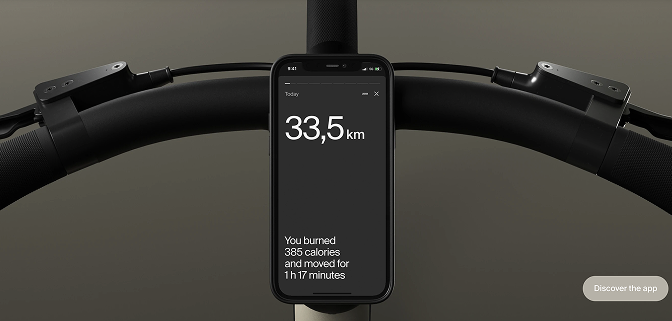
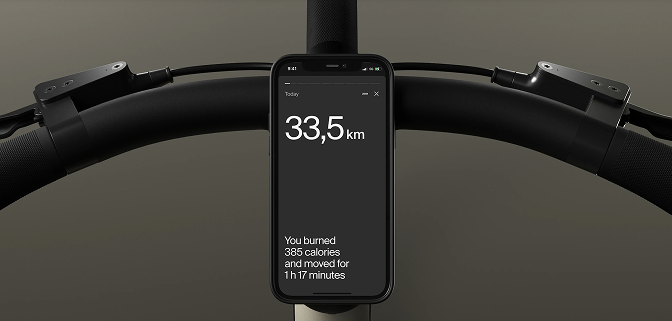
ten changes

Changed region(s): [[0.8438, 0.8411, 1.0, 0.9346]]

diff --git a/src/index.html b/src/index.html
@@ -5,6 +5,7 @@
     <meta charset="UTF-8">
     <meta name="viewport" content="width=device-width, initial-scale=1.0">
     <title>My Bike</title>
+    <link rel="icon" href="./images/Vector.png" type="image/x-icon">
     <link rel="stylesheet" href="./styles/main.scss">
     <link rel="preconnect" href="https://fonts.googleapis.com">
     <link rel="preconnect" href="https://fonts.gstatic.com"
@@ -175,8 +176,7 @@
       <section class="contact" id="contacts">
         <div class="contact__title"><h2>Contact us</h2></div>
         <div class="contact__content">
-          <form class="contact__form" action="#"
-            method="post">
+          <form class="contact__form" action="#">
             <input class="contact__field" type="text"
               name="name" placeholder="Name"
               required>
@@ -205,11 +205,12 @@
 
             <div class="contact__item">
               <p class="contact__label">Address</p>
-              <p class="contact__value">
+              <a class="contact__value"  
+              href="https://www.google.com/maps/search/?api=1&query=400+First+Ave+Suite+700+Minneapolis+MN+55401" target="_blank">
                 400 first ave.<br>
                 suite 700<br>
                 Minneapolis, MN 55401
-              </p>
+            </a>
             </div>
           </div>
         </div>

diff --git a/src/styles/blocks/header.scss b/src/styles/blocks/header.scss
@@ -2,20 +2,20 @@
   background-image: url(../images/header-bg-small.png);
   background-repeat: no-repeat;
   background-position: right center;
+  background-size: cover;
   display: flex;
   flex-direction: column;
-  min-height: 480px;
+  height: 100vh;
+  width: 100%;
 
   @include on-tablet {
-     min-height: 628px;
+     background-position: center center;
      background-image: url(../images/header-bg2.png);
    }
 
   @include on-desktop {
-    box-sizing: border-box;
-    background-size: cover;
+    background-position: center center;
     background-image: url(../images/header-bg.png);
-    min-height: 711px;
    }
 
   &__title {

diff --git a/src/styles/blocks/details.scss b/src/styles/blocks/details.scss
@@ -73,6 +73,12 @@
            aspect-ratio: 1 / 1;
            background-image: url(../images/details/discSide.png);
          }
+
+         transition: transform 0.3s;
+
+        &:hover {
+          transform: scale(1.05);
+        }
        }
 
     &__item-content {
@@ -149,10 +155,9 @@
 
     &__image--unlock-side,
     &__image--range-side,
-    &__image--disc-side {  
+    &__image--disc-side {
         aspect-ratio: 1 / 1;
     }
-
 
     &__item-content {
         letter-spacing: 0;

diff --git a/src/styles/blocks/menu.scss b/src/styles/blocks/menu.scss
@@ -7,7 +7,15 @@
    text-transform: uppercase;
 
    &__content {
-      padding: 24px 121px;
+      padding: 32px 20px;
+
+      @include on-tablet {
+        padding: 24px 72px;
+      }
+
+      @include on-desktop {
+        padding: 24px 120px;
+      }
     }
 
    &__icons {
@@ -25,6 +33,7 @@
       line-height: 27px;
       letter-spacing: 0;
       text-decoration: none;
+      white-space: nowrap;
     }
 
    &__phone-call {

diff --git a/src/styles/blocks/nav.scss b/src/styles/blocks/nav.scss
@@ -5,13 +5,19 @@
       padding: 0;
       list-style: none;
       display: flex;
-      gap: 32px;
+      gap: 28px;
       flex-direction: column;
     }
 
     &__link {
+      display: block;
+      width: fit-content;
       color: inherit;
       text-decoration: none;
+      font-size: 22px;
+      font-weight: 600;
+      line-height: 22px;
+      letter-spacing: 2px;
     }
 }
 

diff --git a/src/styles/blocks/compare.scss b/src/styles/blocks/compare.scss
@@ -64,6 +64,12 @@
     background-position: center;
     background-size: cover;
 
+    transition: transform 0.3s;
+
+     &:hover {
+      transform: scale(1.05);
+     }
+
    @include on-tablet {
       width: 392px;
       height: 316px;

diff --git a/src/scripts/main.js b/src/scripts/main.js
@@ -1,1 +1,8 @@
 'use strict';
+
+const form = document.querySelector('.contact__form');
+
+form.addEventListener('submit', (event) => {
+  event.preventDefault();
+  form.reset();
+});

diff --git a/src/styles/blocks/icon.scss b/src/styles/blocks/icon.scss
@@ -4,7 +4,7 @@
   height: 24px;
   width: 24px;
   background-size: cover;
-  cursor: default;
+  cursor: pointer;
 
     @media (min-width: 744px) {
     height: 32px;

diff --git a/src/styles/blocks/contacts.scss b/src/styles/blocks/contacts.scss
@@ -48,6 +48,7 @@
     background-color: #fff;
     font-size: 16px;
     font-weight: 700;
+    cursor: pointer;
     transition: box-shadow 0.3s;
 
     &:hover {

diff --git a/src/styles/blocks/page.scss b/src/styles/blocks/page.scss
@@ -22,6 +22,8 @@
 
     opacity: 0;
     pointer-events: none;
+
+    transition: opacity 0.3s;
   }
 
   &__menu:target {
